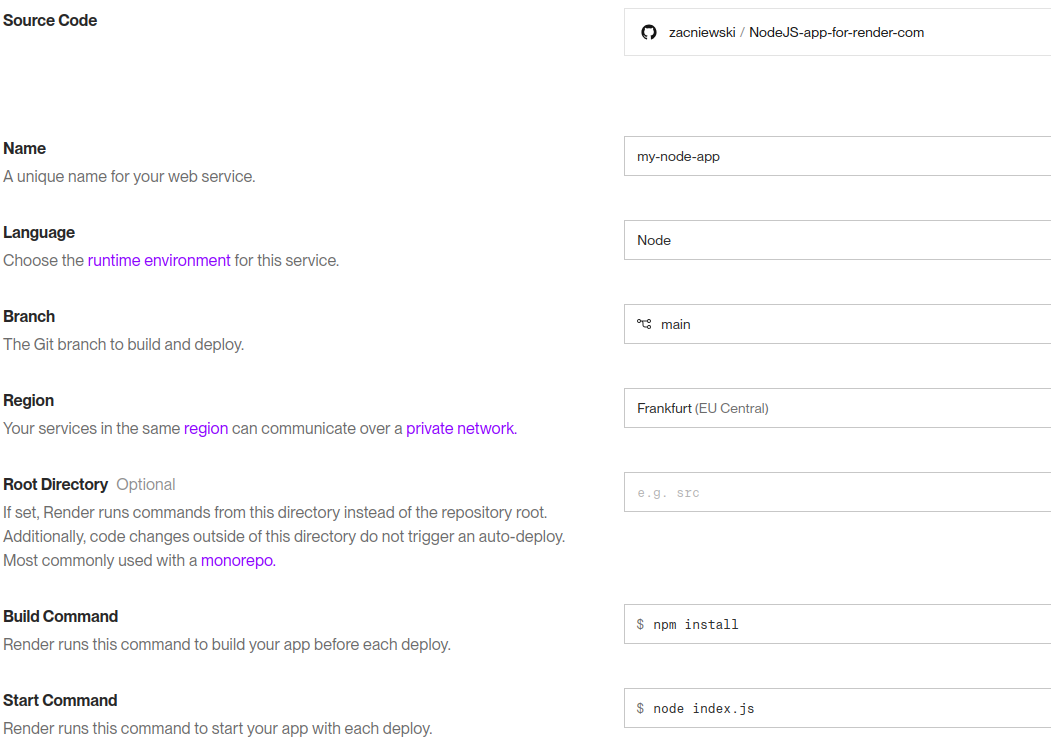
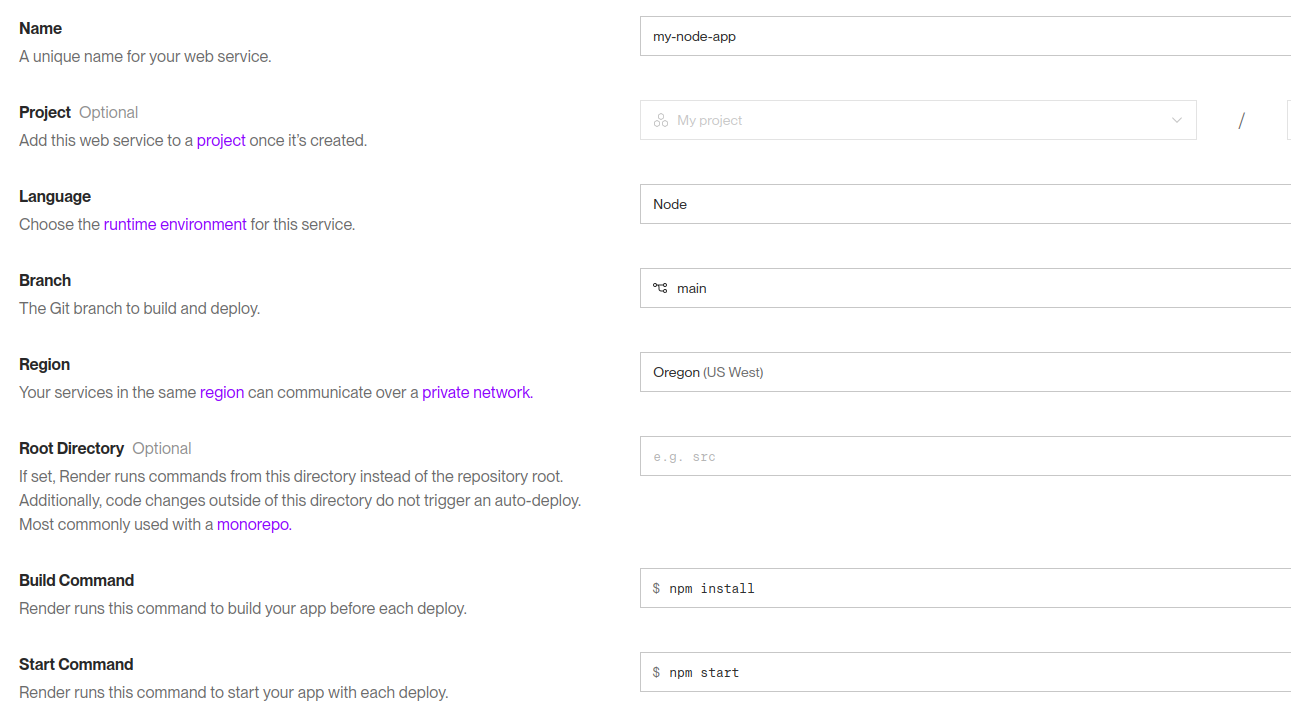
Adding screenshots with configuration steps

diff --git a/README.md b/README.md
@@ -92,7 +92,8 @@ Wypełnij formularz konfiguracji następującymi danymi:
 - **Build Command**: `npm install`
 - **Start Command**: `npm start`
 
-W sekcji **Instance Type** wybierz darmowy plan (**Free**).
+W sekcji **Instance Type** wybierz darmowy plan (**Free**).  
+> Nie wciskaj jeszcze `Deploy Web Service`!
 
 ![Formularz konfiguracji usługi na Render](screenshots/3.png)
 
@@ -108,7 +109,9 @@ Jeśli chcesz, aby baza była trwała i profesjonalna, zalecane jest użycie Pos
    - Key: `DATABASE_URL`
    - Value: `./database.sqlite`
 
-> ![Placeholder: Sekcja Environment Variables dla SQLite]
+> ![Placeholder: Sekcja Environment Variables dla SQLite](screenshots/4.png)  
+Teraz możesz wcisnąć `Deploy Web Service`  
+
 
 ### Opcja B: PostgreSQL (Zalecane)
 
